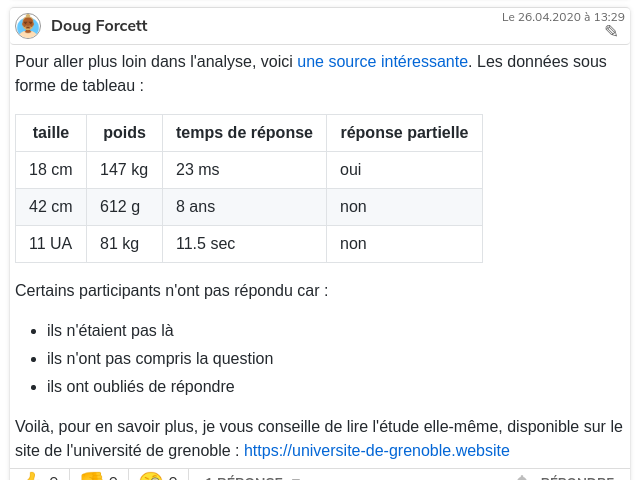
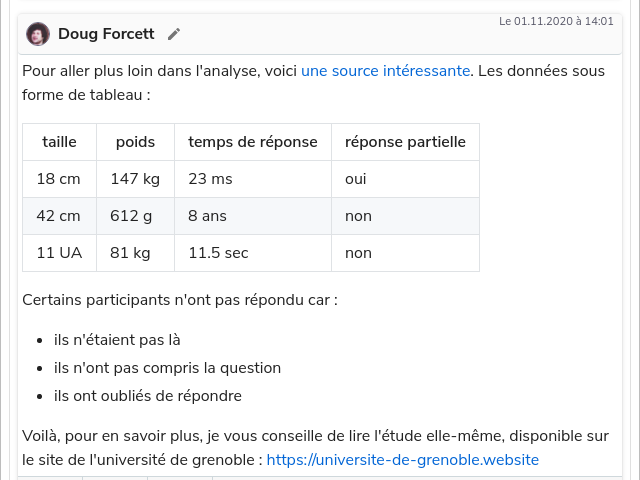
feat(website): update website screenshots

diff --git a/e2e/cypress/integration/screenshots.spec.js b/e2e/cypress/integration/screenshots.spec.js
@@ -1,12 +1,12 @@
 describe.skip('website screenshots', () => {
   beforeEach(() => {
-    cy.viewport(640 + 2 * 16, 480);
+    cy.viewport(640, 480);
   });
 
   it('search', () => {
     cy.seedFromFixture('screenshot/search.json');
 
-    cy.visitIntegration('https://news.fake/article/1');
+    cy.visitIntegration('id:1');
 
     cy.get('input[name="search"]').type('NoFakeScience');
 
@@ -18,42 +18,42 @@ describe.skip('website screenshots', () => {
   it('nested replies', () => {
     cy.seedFromFixture('screenshot/nested-replies.json');
 
-    cy.visitIntegration('https://news.fake/article/1');
+    cy.visitIntegration('id:1');
 
     cy.getComment(1).contains('2 réponses').click();
-    cy.getComment(2).contains('1 réponse').click();
+    cy.getComment(2).contains('5 réponse').click();
 
-    cy.websiteScreenshot('nested-replies', 380);
+    cy.websiteScreenshot('nested-replies', { y: 665 });
   });
 
   it('sort relevance', () => {
     cy.seedFromFixture('screenshot/sort-relevance.json');
+    cy.login({ email: 'user03@domain.tld', password: 'secure p4ssword' });
 
-    cy.visitIntegration('https://news.fake/article/1');
+    cy.visitIntegration('id:1');
 
-    cy.websiteScreenshot('sort-relevance', 120);
+    cy.websiteScreenshot('sort-relevance', { y: 420 });
   });
 
   it('subscription', () => {
     cy.seedFromFixture('screenshot/subscription.json');
     cy.login({ email: 'user03@domain.tld', password: 'secure p4ssword' });
 
-    cy.visitIntegration('https://news.fake/article/1');
+    cy.visitIntegration('id:1');
 
     cy.getComment(2).contains('1 réponse').click();
-    cy.getComment(2).within(() => cy.get('[title="S\'abonner"]').click());
 
-    cy.websiteScreenshot('subscription', 260);
+    cy.websiteScreenshot('subscription', { y: 400 });
   });
 
   it('format', () => {
     cy.seedFromFixture('screenshot/format.json');
     cy.login({ email: 'user01@domain.tld', password: 'secure p4ssword' });
 
-    cy.visitIntegration('https://news.fake/article/1');
+    cy.visitIntegration('id:1');
 
     cy.getComment(2).contains('1 réponse').click();
 
-    cy.websiteScreenshot('format', 393);
+    cy.websiteScreenshot('format', { y: 570 });
   });
 });

diff --git a/website/src/pages/Home/Home.scss b/website/src/pages/Home/Home.scss
@@ -116,7 +116,7 @@ $break-xxlarge: 1590px;
         }
 
         @media screen and (min-width: $break-medium) {
-          font-size: 24px;
+          font-size: 22px;
         }
       }
     }
@@ -148,6 +148,11 @@ $break-xxlarge: 1590px;
       @media screen and (min-width: $break-medium) {
         margin-top: 25px;
         margin-bottom: 25px;
+      }
+
+      img {
+        border-top: 1px solid #CCC;
+        border-bottom: 1px solid #CCC;
       }
 
       .carousel-slide-legend {

diff --git a/e2e/cypress/support/commands.js b/e2e/cypress/support/commands.js
@@ -129,13 +129,13 @@ Cypress.Commands.add('didTrack', (event) => {
     });
 });
 
-Cypress.Commands.add('websiteScreenshot', (name, scroll = 1) => {
+Cypress.Commands.add('websiteScreenshot', (name, { x = 0, y = 1} = {}) => {
   cy.fixCI();
-  cy.scrollTo(0, scroll);
+  cy.scrollTo(0, y);
   cy.screenshot(name, {
     clip: {
-      x: 16,
-      y: scroll,
+      x,
+      y,
       width: 640,
       height: 480,
     },
